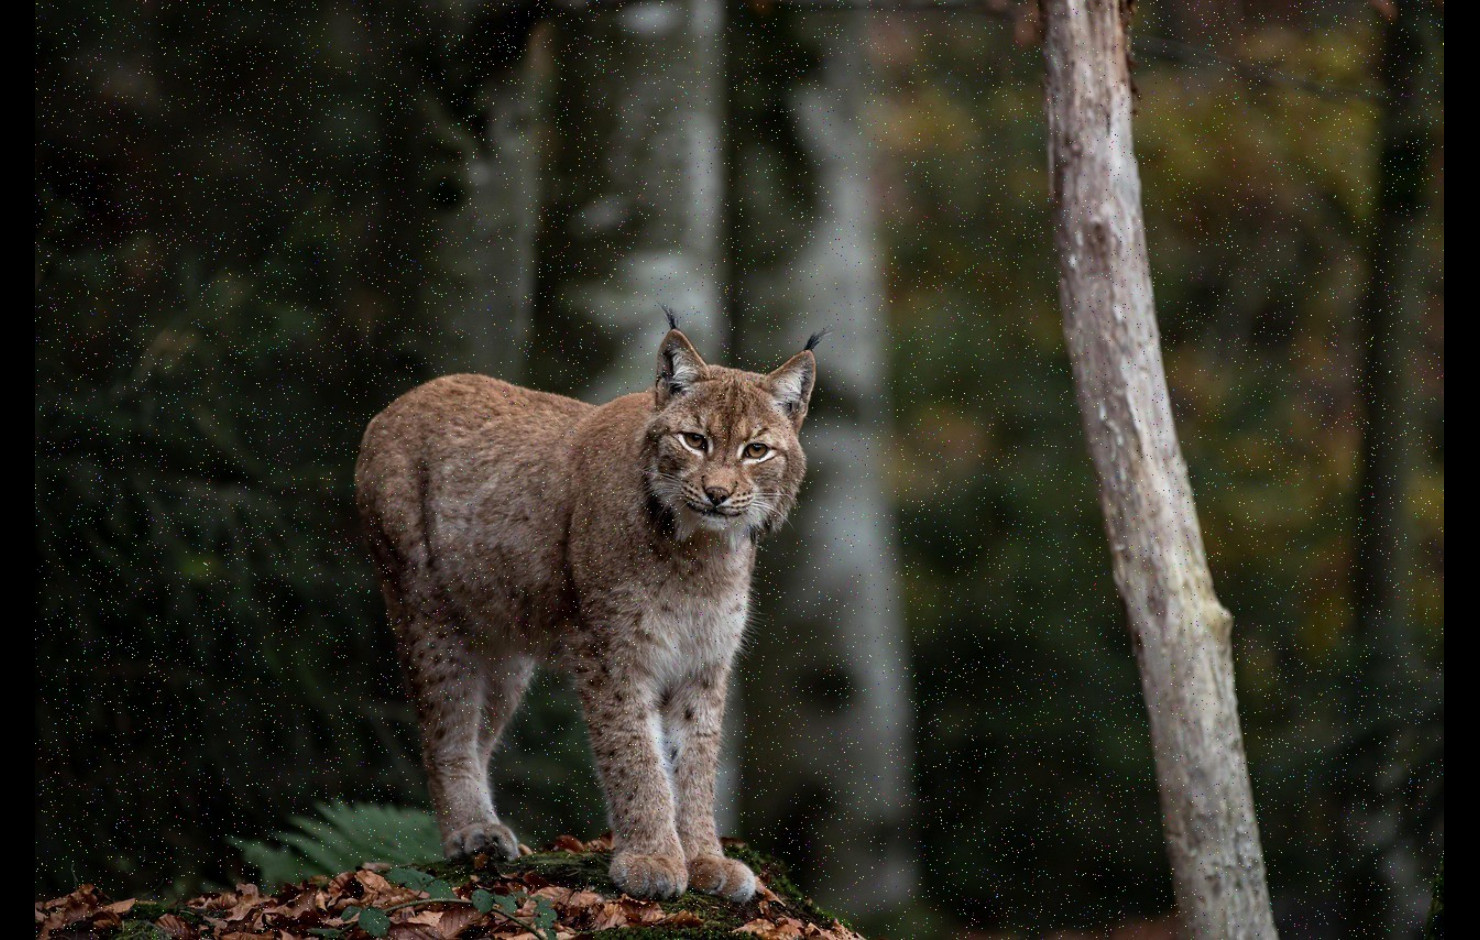
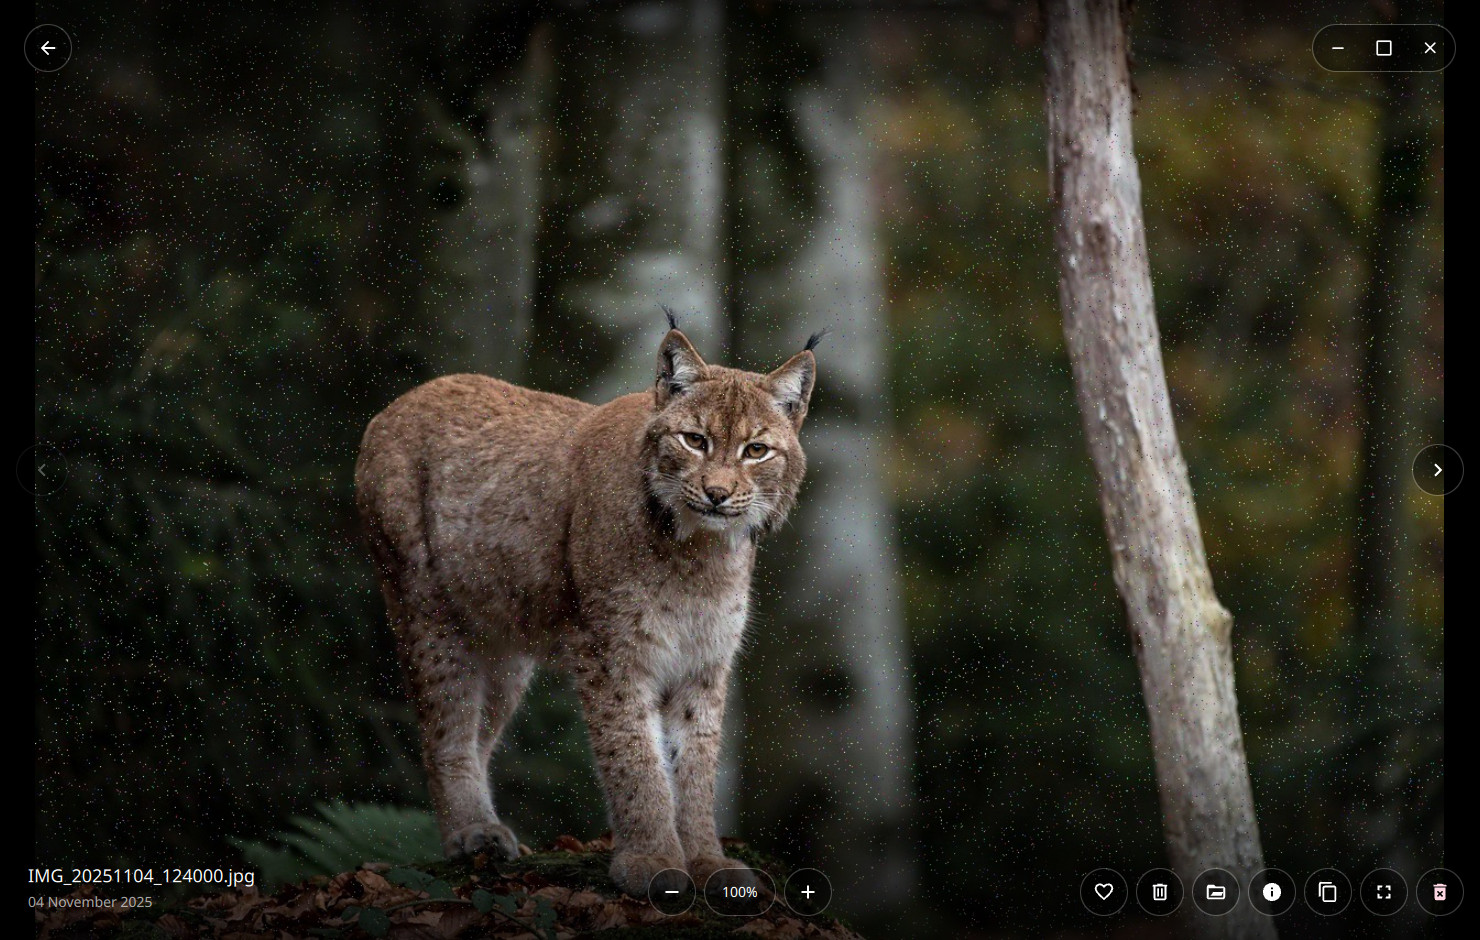
Window buttons where the desktop expects them; viewer controls stay visible
- Kader's windows are frameless, so they now draw minimise / maximise /
  close (top bar, and as a glass pill in the viewer) on Windows, GNOME,
  KDE and other desktop environments, and none under Hyprland, niri,
  sway, i3 and other tiling/standalone window managers. Settings →
  Appearance → Window buttons: Auto / Show / Hide.
- Viewer: controls only auto-hide in fullscreen; the viewer's own close
  becomes a back arrow at the top left.
- README: screenshots section removed (the files stay in screenshots/);
  viewer screenshot retaken with its controls showing.

Claude-Session: https://claude.ai/code/session_01XuadrFNPFdc7JECc1xAvmG

diff --git a/qml/views/ViewerOverlay.qml b/qml/views/ViewerOverlay.qml
@@ -86,12 +86,16 @@ Rectangle {
         }
     }
 
-    // Auto-hide the chrome after 2.5 s without pointer movement, so the photo
-    // owns the whole window; any movement brings it back.
+    // In a normal window the controls stay put. In fullscreen they step
+    // aside after 2.5 s without pointer movement so the photo owns the
+    // screen; any movement brings them back.
+    readonly property bool _anyFullscreen: Window.window !== null && Window.window.visibility === Window.FullScreen
+    on_AnyFullscreenChanged: _poke()
     Timer {
         id: controlsHideTimer
         interval: 2500
         onTriggered: {
+            if (!root._anyFullscreen) return
             if (root._overChrome || root.infoPanelOpen || deleteConfirm.showing || root._editMode) restart()
             else root._controlsVisible = false
         }
@@ -946,21 +950,32 @@ Rectangle {
         MouseArea { id: nextMa; anchors.fill: parent; hoverEnabled: true; cursorShape: Qt.PointingHandCursor; enabled: root.currentIndex < root.allItems.length - 1; onClicked: root.navigateNext() }
     }
 
-    // ── Close ─────────────────────────────────────────────────────────────
-    Rectangle {
+    // ── Window controls (the viewer covers the window's own chrome) ──────
+    WindowControls {
+        glass: true
         anchors.top: parent.top; anchors.right: parent.right; anchors.margins: 24
+        opacity: root.chromeOpacity
+        visible: opacity > 0
+        Behavior on opacity { NumberAnimation { duration: 200 } }
+        z: 60
+        HoverHandler { onHoveredChanged: root._overChrome = hovered }
+    }
+
+    // ── Back to the gallery ───────────────────────────────────────────────
+    Rectangle {
+        visible: opacity > 0 && !root.viewerOnlyMode
+        anchors.top: parent.top; anchors.left: parent.left; anchors.margins: 24
         width: 48; height: 48; radius: 24
         color: closeMa.pressed ? Qt.rgba(0, 0, 0, 0.72) : closeMa.containsMouse ? Qt.rgba(0, 0, 0, 0.60) : Qt.rgba(0, 0, 0, 0.44)
         border.color: Qt.alpha("white", 0.24); border.width: 1
         opacity: root.chromeOpacity
         z: 60
         HoverHandler { onHoveredChanged: root._overChrome = hovered }
-        visible: opacity > 0
         Behavior on opacity { NumberAnimation { duration: 200 } }
         Behavior on color { ColorAnimation { duration: ThemeManager.durShort } }
         scale: closeMa.pressed ? 0.92 : 1.0
         Behavior on scale { NumberAnimation { duration: ThemeManager.durShort } }
-        M3Icon { anchors.centerIn: parent; name: "close"; size: 22; color: "white" }
+        M3Icon { anchors.centerIn: parent; name: "arrow_back"; size: 22; color: "white" }
         MouseArea { id: closeMa; anchors.fill: parent; hoverEnabled: true; cursorShape: Qt.PointingHandCursor; onClicked: root.active = false }
     }
 

diff --git a/qml/components/WindowControls.qml b/qml/components/WindowControls.qml
@@ -1,0 +1,63 @@
+import QtQuick
+import QtQuick.Controls
+import QtQuick.Window
+import ".."
+
+// Minimise / maximise-restore / close for Kader's frameless windows. `glass`
+// draws them as a dark translucent pill for use over photos (the viewer).
+Rectangle {
+    id: root
+    property bool glass: false
+    readonly property var win: Window.window
+    readonly property bool maximized: win && (win.visibility === Window.Maximized || win.visibility === Window.FullScreen)
+
+    // Settings → Appearance → Window buttons (auto follows the desktop)
+    visible: Settings.windowButtons === 1
+             || (Settings.windowButtons === 0 && typeof SYSTEM_WINDOW_BUTTONS !== "undefined" && SYSTEM_WINDOW_BUTTONS)
+    implicitWidth: row.implicitWidth + (glass ? 8 : 0)
+    implicitHeight: glass ? 48 : 40
+    radius: height / 2
+    color: glass ? Qt.rgba(0, 0, 0, 0.44) : "transparent"
+    border.width: glass ? 1 : 0
+    border.color: Qt.alpha("white", 0.24)
+
+    component WinButton: Rectangle {
+        id: b
+        property string icon
+        property bool danger: false
+        signal clicked()
+        width: root.glass ? 44 : 40
+        height: root.glass ? 40 : 36
+        radius: height / 2
+        color: ma.pressed ? (danger ? "#c62828" : Qt.alpha(root.glass ? "white" : ThemeManager.onSurface, 0.20))
+             : ma.containsMouse ? (danger ? "#e53935" : Qt.alpha(root.glass ? "white" : ThemeManager.onSurface, 0.10))
+             : "transparent"
+        Behavior on color { ColorAnimation { duration: ThemeManager.durShort } }
+        MaterialSymbol {
+            anchors.centerIn: parent
+            name: b.icon
+            size: 20
+            color: (b.danger && ma.containsMouse) || root.glass ? "white" : ThemeManager.onSurfaceVariant
+        }
+        MouseArea { id: ma; anchors.fill: parent; hoverEnabled: true; onClicked: b.clicked() }
+    }
+
+    Row {
+        id: row
+        anchors.centerIn: parent
+        spacing: 2
+        WinButton {
+            icon: "remove"
+            onClicked: root.win.showMinimized()
+        }
+        WinButton {
+            icon: root.maximized ? "filter_none" : "crop_square"
+            onClicked: root.maximized ? root.win.showNormal() : root.win.showMaximized()
+        }
+        WinButton {
+            icon: "close"
+            danger: true
+            onClicked: root.win.close()
+        }
+    }
+}

diff --git a/qml/views/SettingsView.qml b/qml/views/SettingsView.qml
@@ -703,6 +703,36 @@ Item {
                     }
                 }
                 SettingsRow {
+                    label: I18n.t(Settings.language, "window_buttons")
+                    sub: I18n.t(Settings.language, typeof SYSTEM_WINDOW_BUTTONS !== "undefined" && SYSTEM_WINDOW_BUTTONS
+                                                   ? "window_buttons_sub_shown" : "window_buttons_sub_hidden")
+                    action: Row {
+                        spacing: 4
+                        Repeater {
+                            model: [[I18n.t(Settings.language, "auto"), 0], [I18n.t(Settings.language, "show"), 1], [I18n.t(Settings.language, "hide"), 2]]
+                            delegate: Button {
+                                required property var modelData
+                                text: modelData[0]
+                                checkable: true
+                                checked: Settings.windowButtons === modelData[1]
+                                onClicked: Settings.windowButtons = modelData[1]
+                                implicitWidth: 72; implicitHeight: 34
+                                background: Rectangle {
+                                    radius: 17
+                                    color: parent.checked ? ThemeManager.secondaryContainer : ThemeManager.surfaceContainerHighest
+                                    border.color: ThemeManager.outline; border.width: 1
+                                }
+                                contentItem: Label {
+                                    text: parent.text; font.pixelSize: 12
+                                    color: parent.checked ? ThemeManager.onSecondaryContainer : ThemeManager.onSurface
+                                    horizontalAlignment: Text.AlignHCenter
+                                    verticalAlignment: Text.AlignVCenter
+                                }
+                            }
+                        }
+                    }
+                }
+                SettingsRow {
                     label: I18n.t(Settings.language, "dynamic_color")
                     sub: I18n.t(Settings.language, "dynamic_color_sub")
                     action: M3Switch { 

diff --git a/qml/I18n.js b/qml/I18n.js
@@ -396,6 +396,9 @@ var _s = {
         "about_view": "View",
         "faces_setting": "Group faces into people", "faces_setting_sub": "Find and recognise faces on this computer (downloads 38 MB of models once)",
         "settings_search": "Search settings",
+        "window_buttons": "Window buttons", "auto": "Auto", "show": "Show", "hide": "Hide",
+        "window_buttons_sub_shown": "Minimise, maximise and close. Auto shows them on this desktop.",
+        "window_buttons_sub_hidden": "Minimise, maximise and close. Auto hides them under tiling window managers like this one.",
         // Search tab
         "search": "Search", "search_matches": "Matches", "search_files": "File and folder names",
         "search_visual": "Visual matches", "search_nothing": "Nothing found",

diff --git a/qml/main.qml b/qml/main.qml
@@ -854,6 +854,11 @@ ApplicationWindow {
                             }
                         }
                     }
+
+                    // the window is frameless: its own minimise/maximise/close
+                    WindowControls {
+                        Layout.alignment: Qt.AlignVCenter
+                    }
                 }
             }
 

diff --git a/src/main.cpp b/src/main.cpp
@@ -50,6 +50,31 @@ static void traceFirstFrame(QQmlApplicationEngine &engine) {
     });
 }
 
+
+// Whether the desktop expects apps to draw their own window buttons. Kader's
+// windows are frameless, so on GNOME, KDE, Windows & co. it draws
+// minimise/maximise/close; tiling and standalone window managers (Hyprland,
+// niri, sway, i3, …) manage windows from the keyboard and get none.
+static bool systemWantsWindowButtons() {
+#ifdef Q_OS_WIN
+    return true;
+#else
+    for (const char *var : {"HYPRLAND_INSTANCE_SIGNATURE", "NIRI_SOCKET", "SWAYSOCK", "I3SOCK"})
+        if (qEnvironmentVariableIsSet(var))
+            return false;
+    const QString desktop = (qEnvironmentVariable("XDG_CURRENT_DESKTOP") + QLatin1Char(':') +
+                             qEnvironmentVariable("XDG_SESSION_DESKTOP")).toLower();
+    static const char *const tiling[] = {"hyprland", "niri", "sway", "river", "i3", "bspwm", "dwm", "qtile",
+                                         "awesome", "xmonad", "herbstluftwm", "spectrwm", "leftwm", "dwl",
+                                         "cosmic-comp", "pop-shell", "miracle-wm", "mango"};
+    for (const char *wm : tiling)
+        if (desktop.contains(QLatin1String(wm)))
+            return false;
+    // no desktop environment advertised: a bare window manager
+    return desktop != QLatin1String(":");
+#endif
+}
+
 int main(int argc, char *argv[]) {
     g_startClock.start();
     g_traceStartup = qEnvironmentVariableIsSet("KADER_TRACE_STARTUP");
@@ -119,6 +144,7 @@ int main(int argc, char *argv[]) {
         engine.rootContext()->setContextProperty("VideoEditor", &videoEditor);
         engine.rootContext()->setContextProperty("FileScanner", &fileScanner);
         engine.rootContext()->setContextProperty("STARTUP_FILE", startupFile);
+        engine.rootContext()->setContextProperty("SYSTEM_WINDOW_BUTTONS", systemWantsWindowButtons());
 
         const QUrl url(QStringLiteral("qrc:/Kader/qml/views/ViewerWindow.qml"));
         QObject::connect(&engine, &QQmlApplicationEngine::objectCreated,
@@ -401,6 +427,7 @@ int main(int argc, char *argv[]) {
     engine.rootContext()->setContextProperty("ThumbGen", &thumbGenerator);
     engine.rootContext()->setContextProperty("STARTUP_FILE", startupFile);
     engine.rootContext()->setContextProperty("AI", &semanticSearch);
+    engine.rootContext()->setContextProperty("SYSTEM_WINDOW_BUTTONS", systemWantsWindowButtons());
     engine.rootContext()->setContextProperty("Analyzer", &analyzer);
     engine.rootContext()->setContextProperty("Updater", &updater);
 

diff --git a/include/SettingsManager.h b/include/SettingsManager.h
@@ -17,6 +17,8 @@ class SettingsManager : public QObject {
     Q_PROPERTY(QString homePath READ homePath CONSTANT)
     Q_PROPERTY(bool autoUpdate READ autoUpdate WRITE setAutoUpdate NOTIFY autoUpdateChanged)
     Q_PROPERTY(bool autoScan READ autoScan WRITE setAutoScan NOTIFY autoScanChanged)
+    // 0 = automatic (hidden on tiling/standalone window managers), 1 = show, 2 = hide
+    Q_PROPERTY(int windowButtons READ windowButtons WRITE setWindowButtons NOTIFY windowButtonsChanged)
     Q_PROPERTY(int trashRetentionDays READ trashRetentionDays WRITE setTrashRetentionDays NOTIFY trashRetentionDaysChanged)
     Q_PROPERTY(QString skippedVersion READ skippedVersion WRITE setSkippedVersion NOTIFY skippedVersionChanged)
 
@@ -58,6 +60,8 @@ public:
     // to skip is not offered again (a newer one is).
     bool autoUpdate() const;
     bool autoScan() const;
+    int windowButtons() const;
+    void setWindowButtons(int mode);
     void setAutoScan(bool on);
     int trashRetentionDays() const;   // 0 = keep forever
     void setTrashRetentionDays(int days);
@@ -91,6 +95,7 @@ signals:
     void placesPanelCompactChanged();
     void autoUpdateChanged();
     void autoScanChanged();
+    void windowButtonsChanged();
     void trashRetentionDaysChanged();
     void skippedVersionChanged();
 

diff --git a/src/SettingsManager.cpp b/src/SettingsManager.cpp
@@ -146,6 +146,17 @@ void SettingsManager::setAutoScan(bool on) {
     }
 }
 
+int SettingsManager::windowButtons() const {
+    return m_data.value("windowButtons").toInt(0);
+}
+void SettingsManager::setWindowButtons(int mode) {
+    if (windowButtons() != mode) {
+        m_data["windowButtons"] = mode;
+        save();
+        emit windowButtonsChanged();
+    }
+}
+
 int SettingsManager::trashRetentionDays() const {
     return m_data.value("trashRetentionDays").toInt(30);
 }

diff --git a/README.md b/README.md
@@ -7,23 +7,6 @@
 
 ---
 
-## Screenshots
-
-Demo library of freely licensed stock photos (see `tools/screenshots/`).
-
-| | |
-|---|---|
-| ![Gallery](screenshots/gallery.jpg) | ![Search](screenshots/search.jpg) |
-| Gallery: justified mosaic by month | Search: people, memories, places, colours |
-| ![Globe](screenshots/globe-world.jpg) | ![Globe, Europe](screenshots/globe-region.jpg) |
-| Places globe with photo pins | Zoomed in: borders, countries, cities |
-| ![Globe, city level](screenshots/globe-city.jpg) | ![Viewer](screenshots/viewer.jpg) |
-| Down to towns and suburbs | Viewer: the whole window is the photo |
-| ![Search results](screenshots/search-results.jpg) | ![Person](screenshots/person.jpg) |
-| One search box for places, people, colours, dates | People: faces grouped on-device |
-| ![Colours](screenshots/search-colours.jpg) | ![Albums](screenshots/albums.jpg) |
-| Memories and colour groups | Albums |
-
 ## Features
 
 - **Timeline** — mosaic grid with automatic monthly separators and variable density
